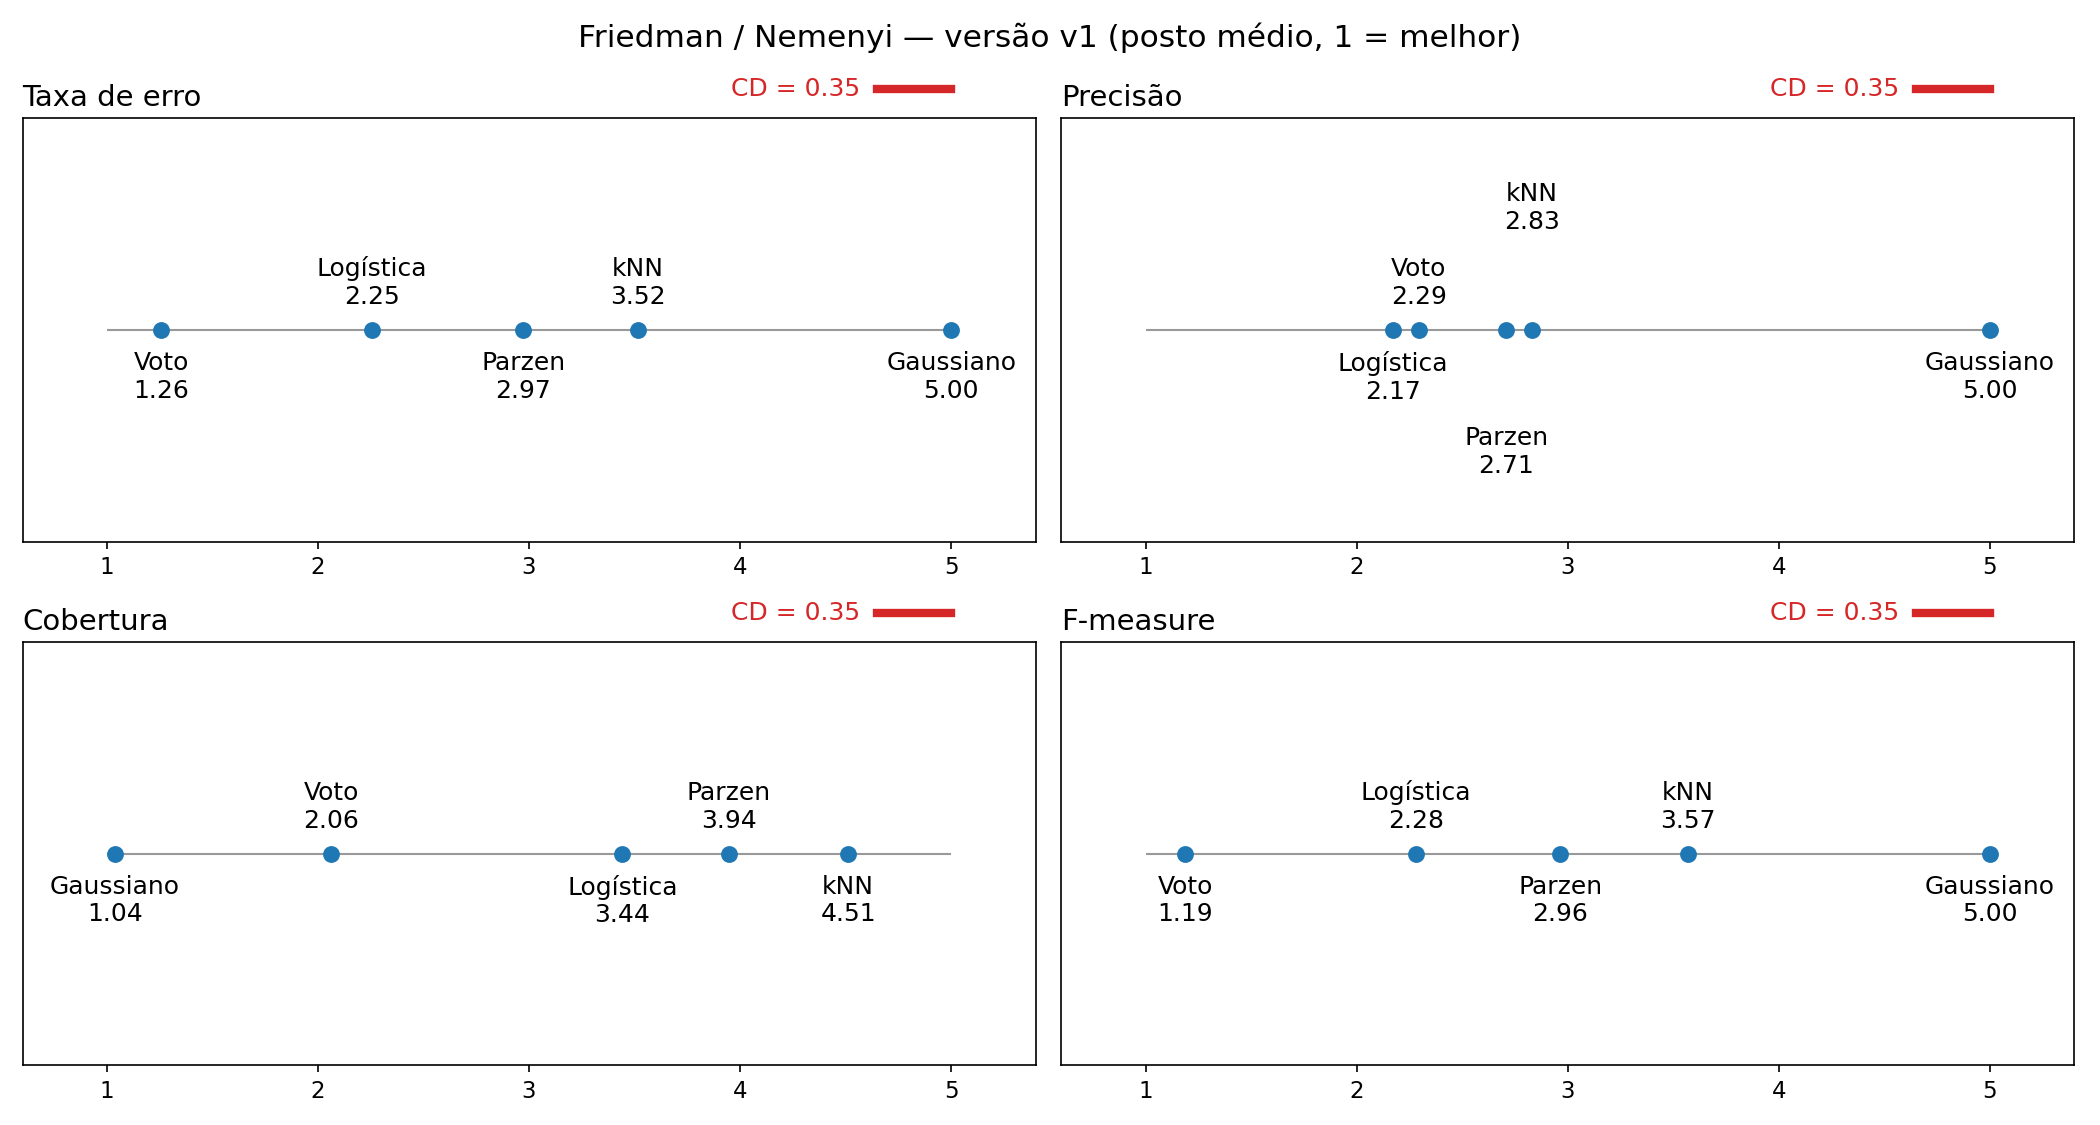
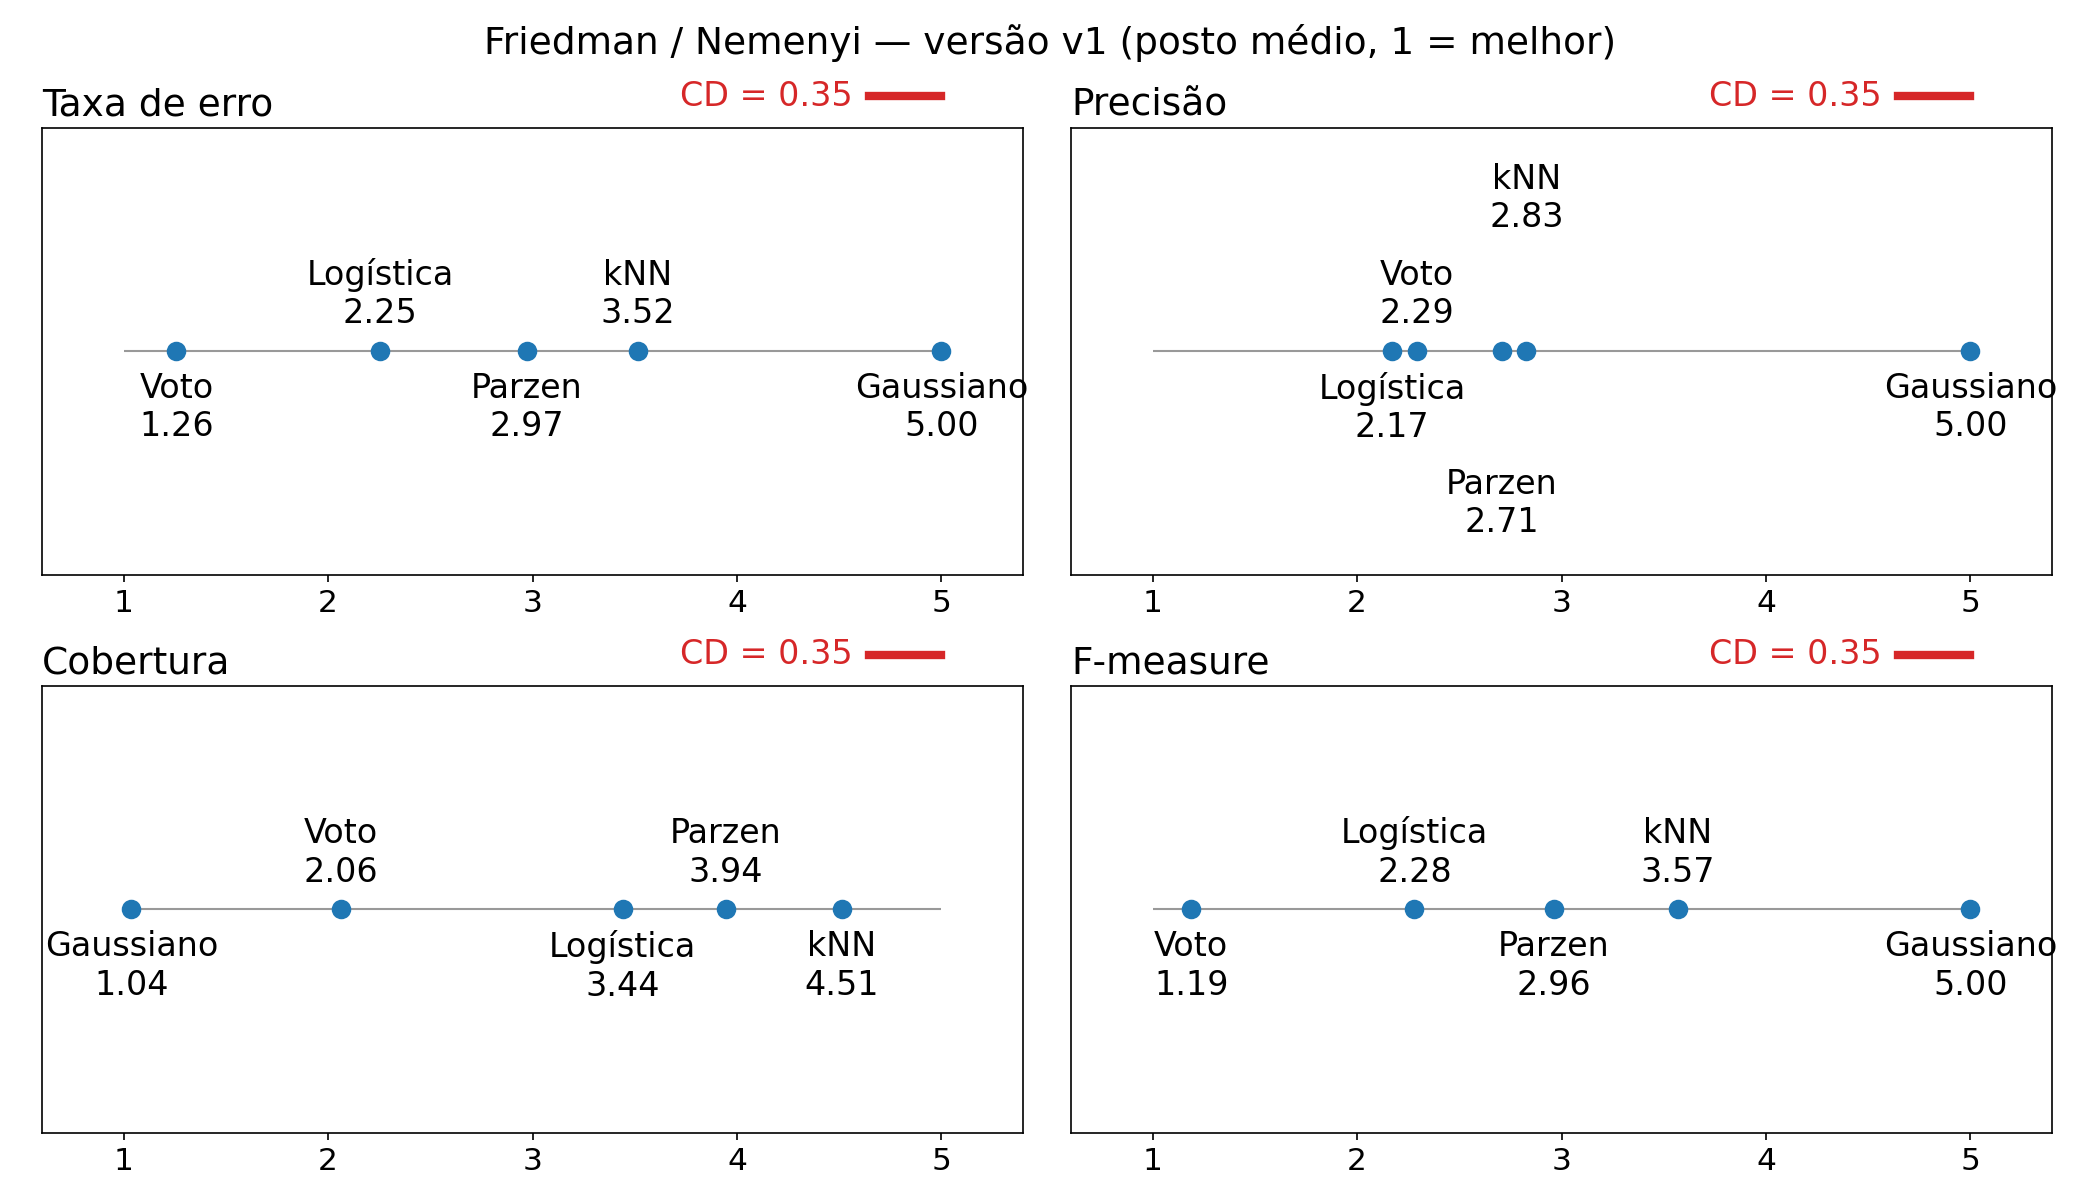
Aumenta fonte dos diagramas de Friedman/Nemenyi para leitura nos slides

diff --git a/questao-02/analisar.py b/questao-02/analisar.py
@@ -102,25 +102,25 @@ def friedman_nemenyi(res):
 
 def grafico_cd(postos_medios, versao, arquivo):
     """Diagrama de diferença crítica: postos médios por métrica, com a CD."""
-    fig, eixos = plt.subplots(2, 2, figsize=(14, 7.5))
+    fig, eixos = plt.subplots(2, 2, figsize=(14, 8))
     for eixo, metrica in zip(eixos.flat, comum.METRICAS):
         medios, cd = postos_medios[metrica]
         ordem = medios.sort_values()
         eixo.hlines(0, 1, len(ORDEM), color="0.6", lw=1)
-        eixo.scatter(ordem.values, np.zeros(len(ordem)), color="tab:blue", s=50, zorder=3)
+        eixo.scatter(ordem.values, np.zeros(len(ordem)), color="tab:blue", s=70, zorder=3)
 
         # Rótulos alternam acima/abaixo da linha; se um rótulo do mesmo lado
-        # já está a menos de 0.7 postos, este sobe (ou desce) um nível.
+        # já está a menos de 0.95 postos, este sobe (ou desce) um nível.
         ocupados = {1: [], -1: []}
         for j, (clf, valor) in enumerate(ordem.items()):
             lado = -1 if j % 2 == 0 else 1
             nivel = 0
-            while any(n == nivel and abs(valor - x) < 0.7 for x, n in ocupados[lado]):
+            while any(n == nivel and abs(valor - x) < 0.95 for x, n in ocupados[lado]):
                 nivel += 1
             ocupados[lado].append((valor, nivel))
             eixo.annotate(f"{NOMES_CURTOS[clf]}\n{valor:.2f}", (valor, 0),
-                          xytext=(0, lado * (10 + 36 * nivel)), textcoords="offset points",
-                          ha="center", va="bottom" if lado > 0 else "top", fontsize=12)
+                          xytext=(0, lado * (10 + 46 * nivel)), textcoords="offset points",
+                          ha="center", va="bottom" if lado > 0 else "top", fontsize=16)
 
         # Régua com o comprimento da CD, acima do painel: dois classificadores
         # mais distantes que ela têm postos médios significativamente diferentes.
@@ -128,13 +128,13 @@ def grafico_cd(postos_medios, versao, arquivo):
         eixo.plot([len(ORDEM) - cd, len(ORDEM)], [1.07, 1.07], color="tab:red", lw=4,
                   transform=regua, clip_on=False)
         eixo.text(len(ORDEM) - cd - 0.08, 1.07, f"CD = {cd:.2f}", transform=regua,
-                  ha="right", va="center", fontsize=12, color="tab:red")
+                  ha="right", va="center", fontsize=16, color="tab:red")
         eixo.set_xlim(0.6, len(ORDEM) + 0.4)
         eixo.set_ylim(-1, 1)
         eixo.set_yticks([])
-        eixo.tick_params(axis="x", labelsize=11)
-        eixo.set_title(f"{comum.NOMES_METRICAS[metrica]}", fontsize=14, loc="left")
-    fig.suptitle(f"Friedman / Nemenyi — versão {versao} (posto médio, 1 = melhor)", fontsize=15)
+        eixo.tick_params(axis="x", labelsize=15)
+        eixo.set_title(f"{comum.NOMES_METRICAS[metrica]}", fontsize=18, loc="left")
+    fig.suptitle(f"Friedman / Nemenyi — versão {versao} (posto médio, 1 = melhor)", fontsize=18)
     fig.tight_layout()
     fig.savefig(arquivo, dpi=150)
     plt.close(fig)
